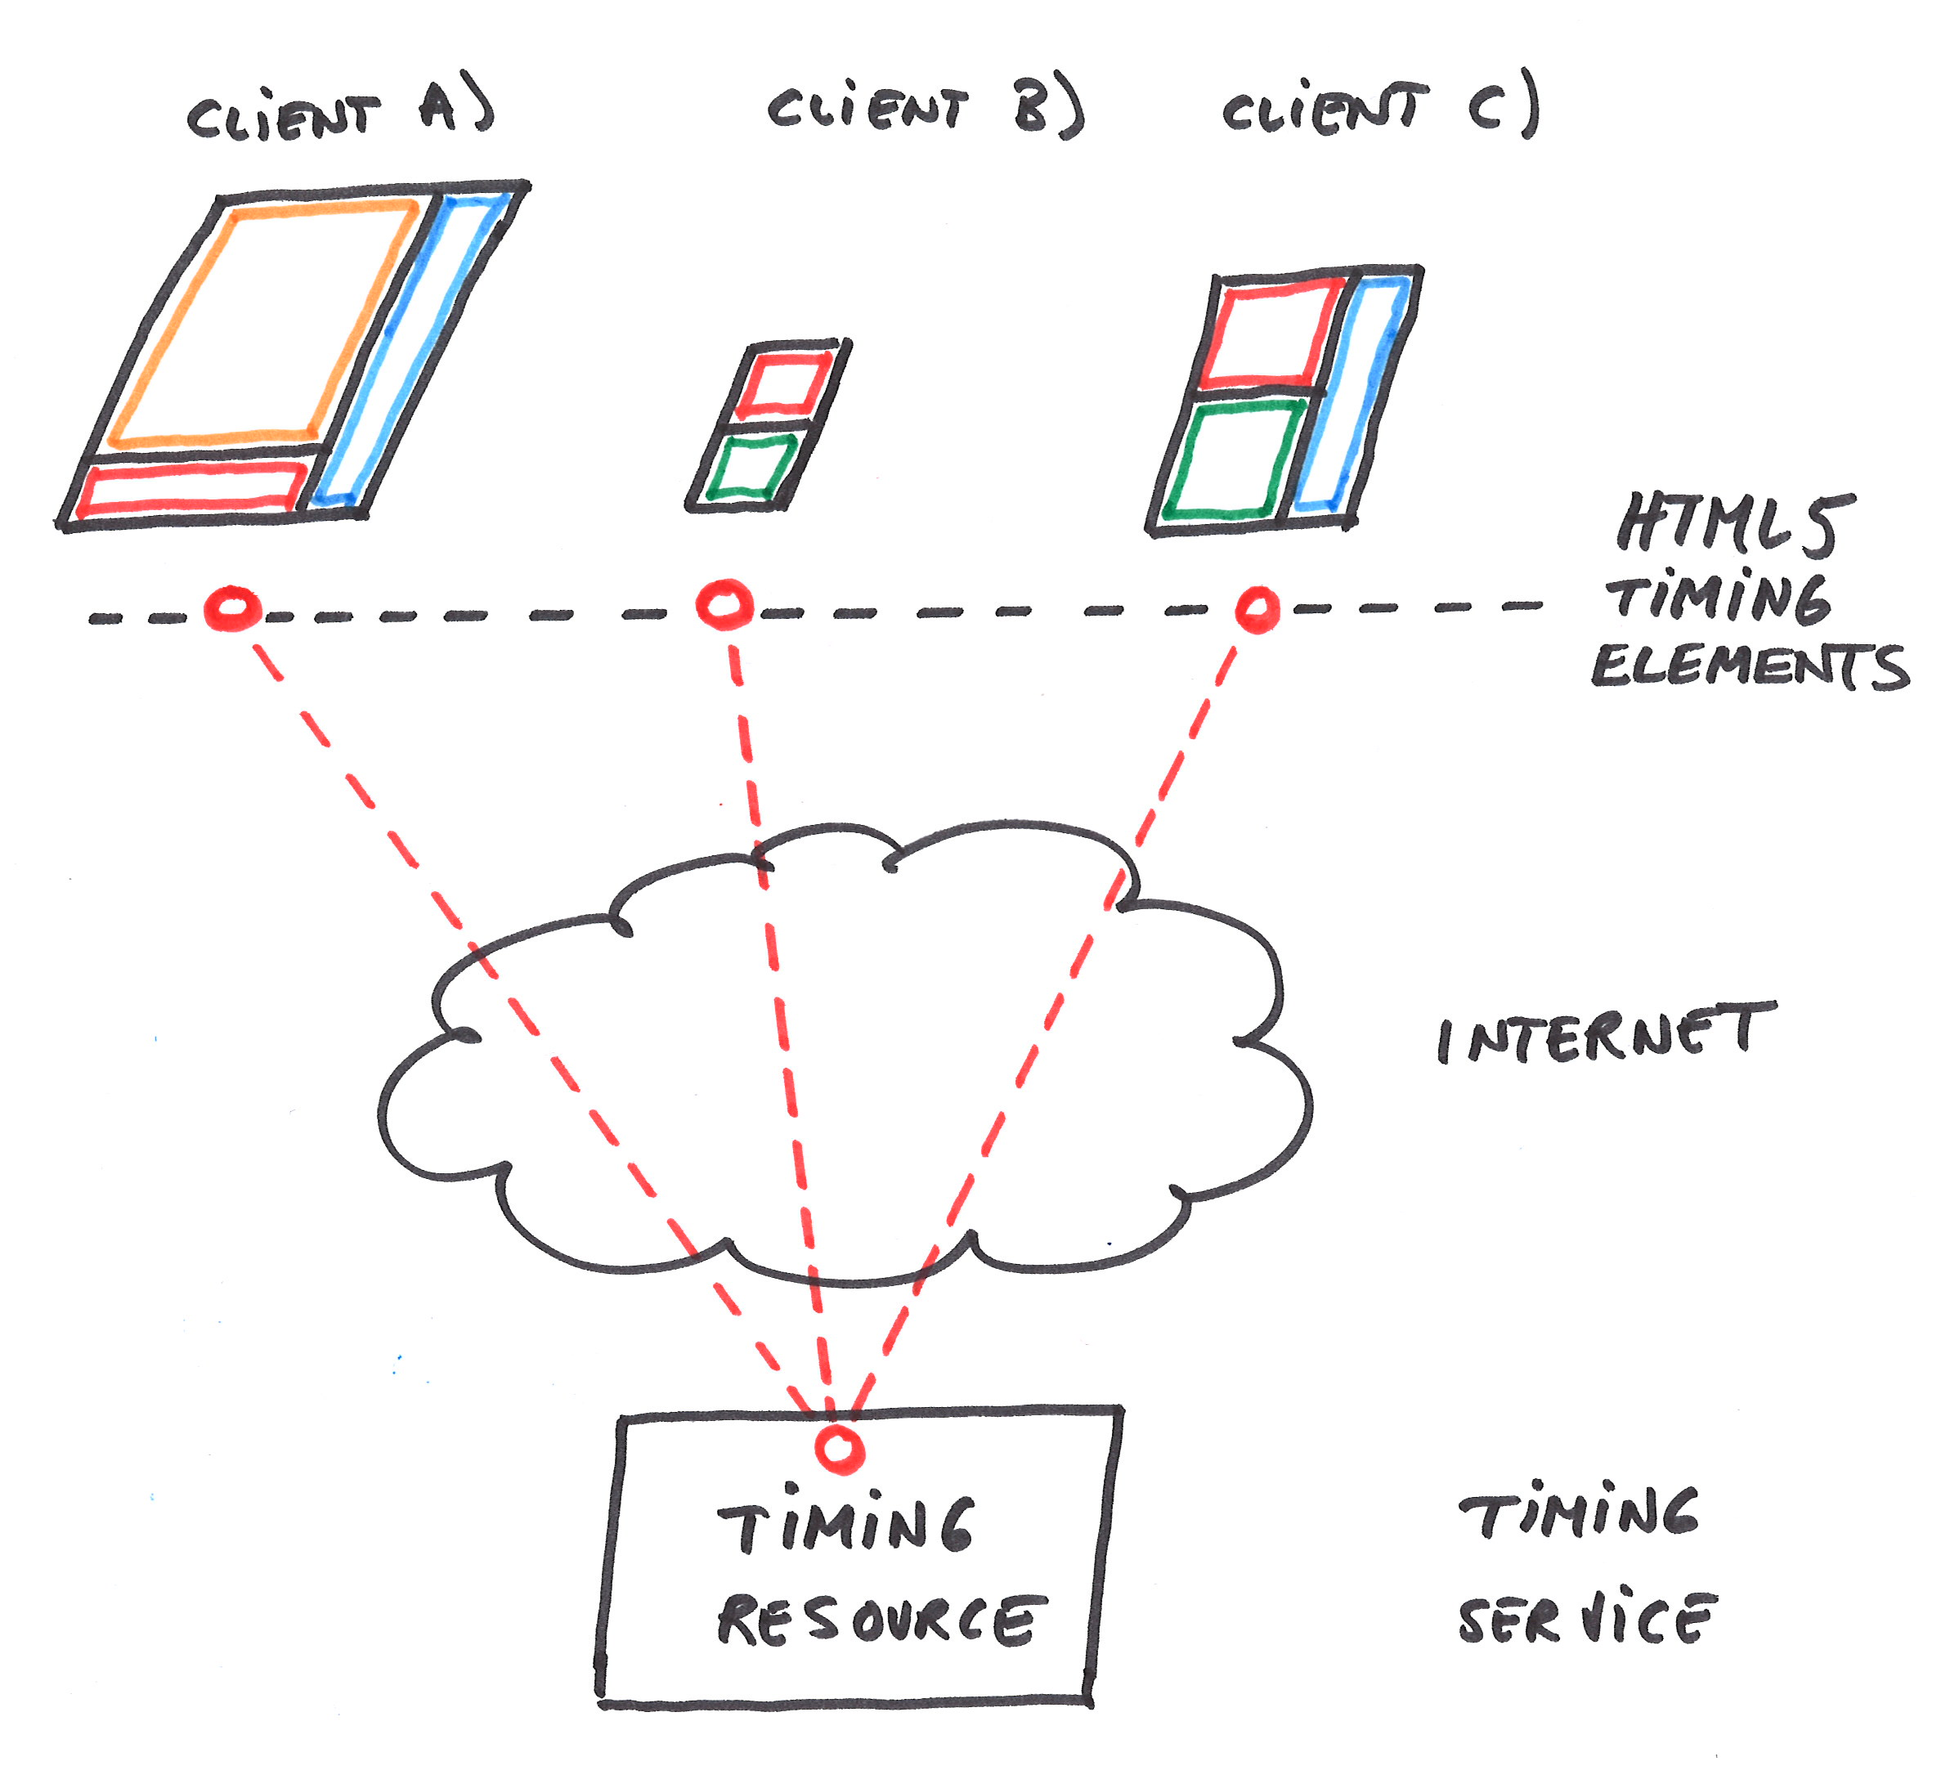
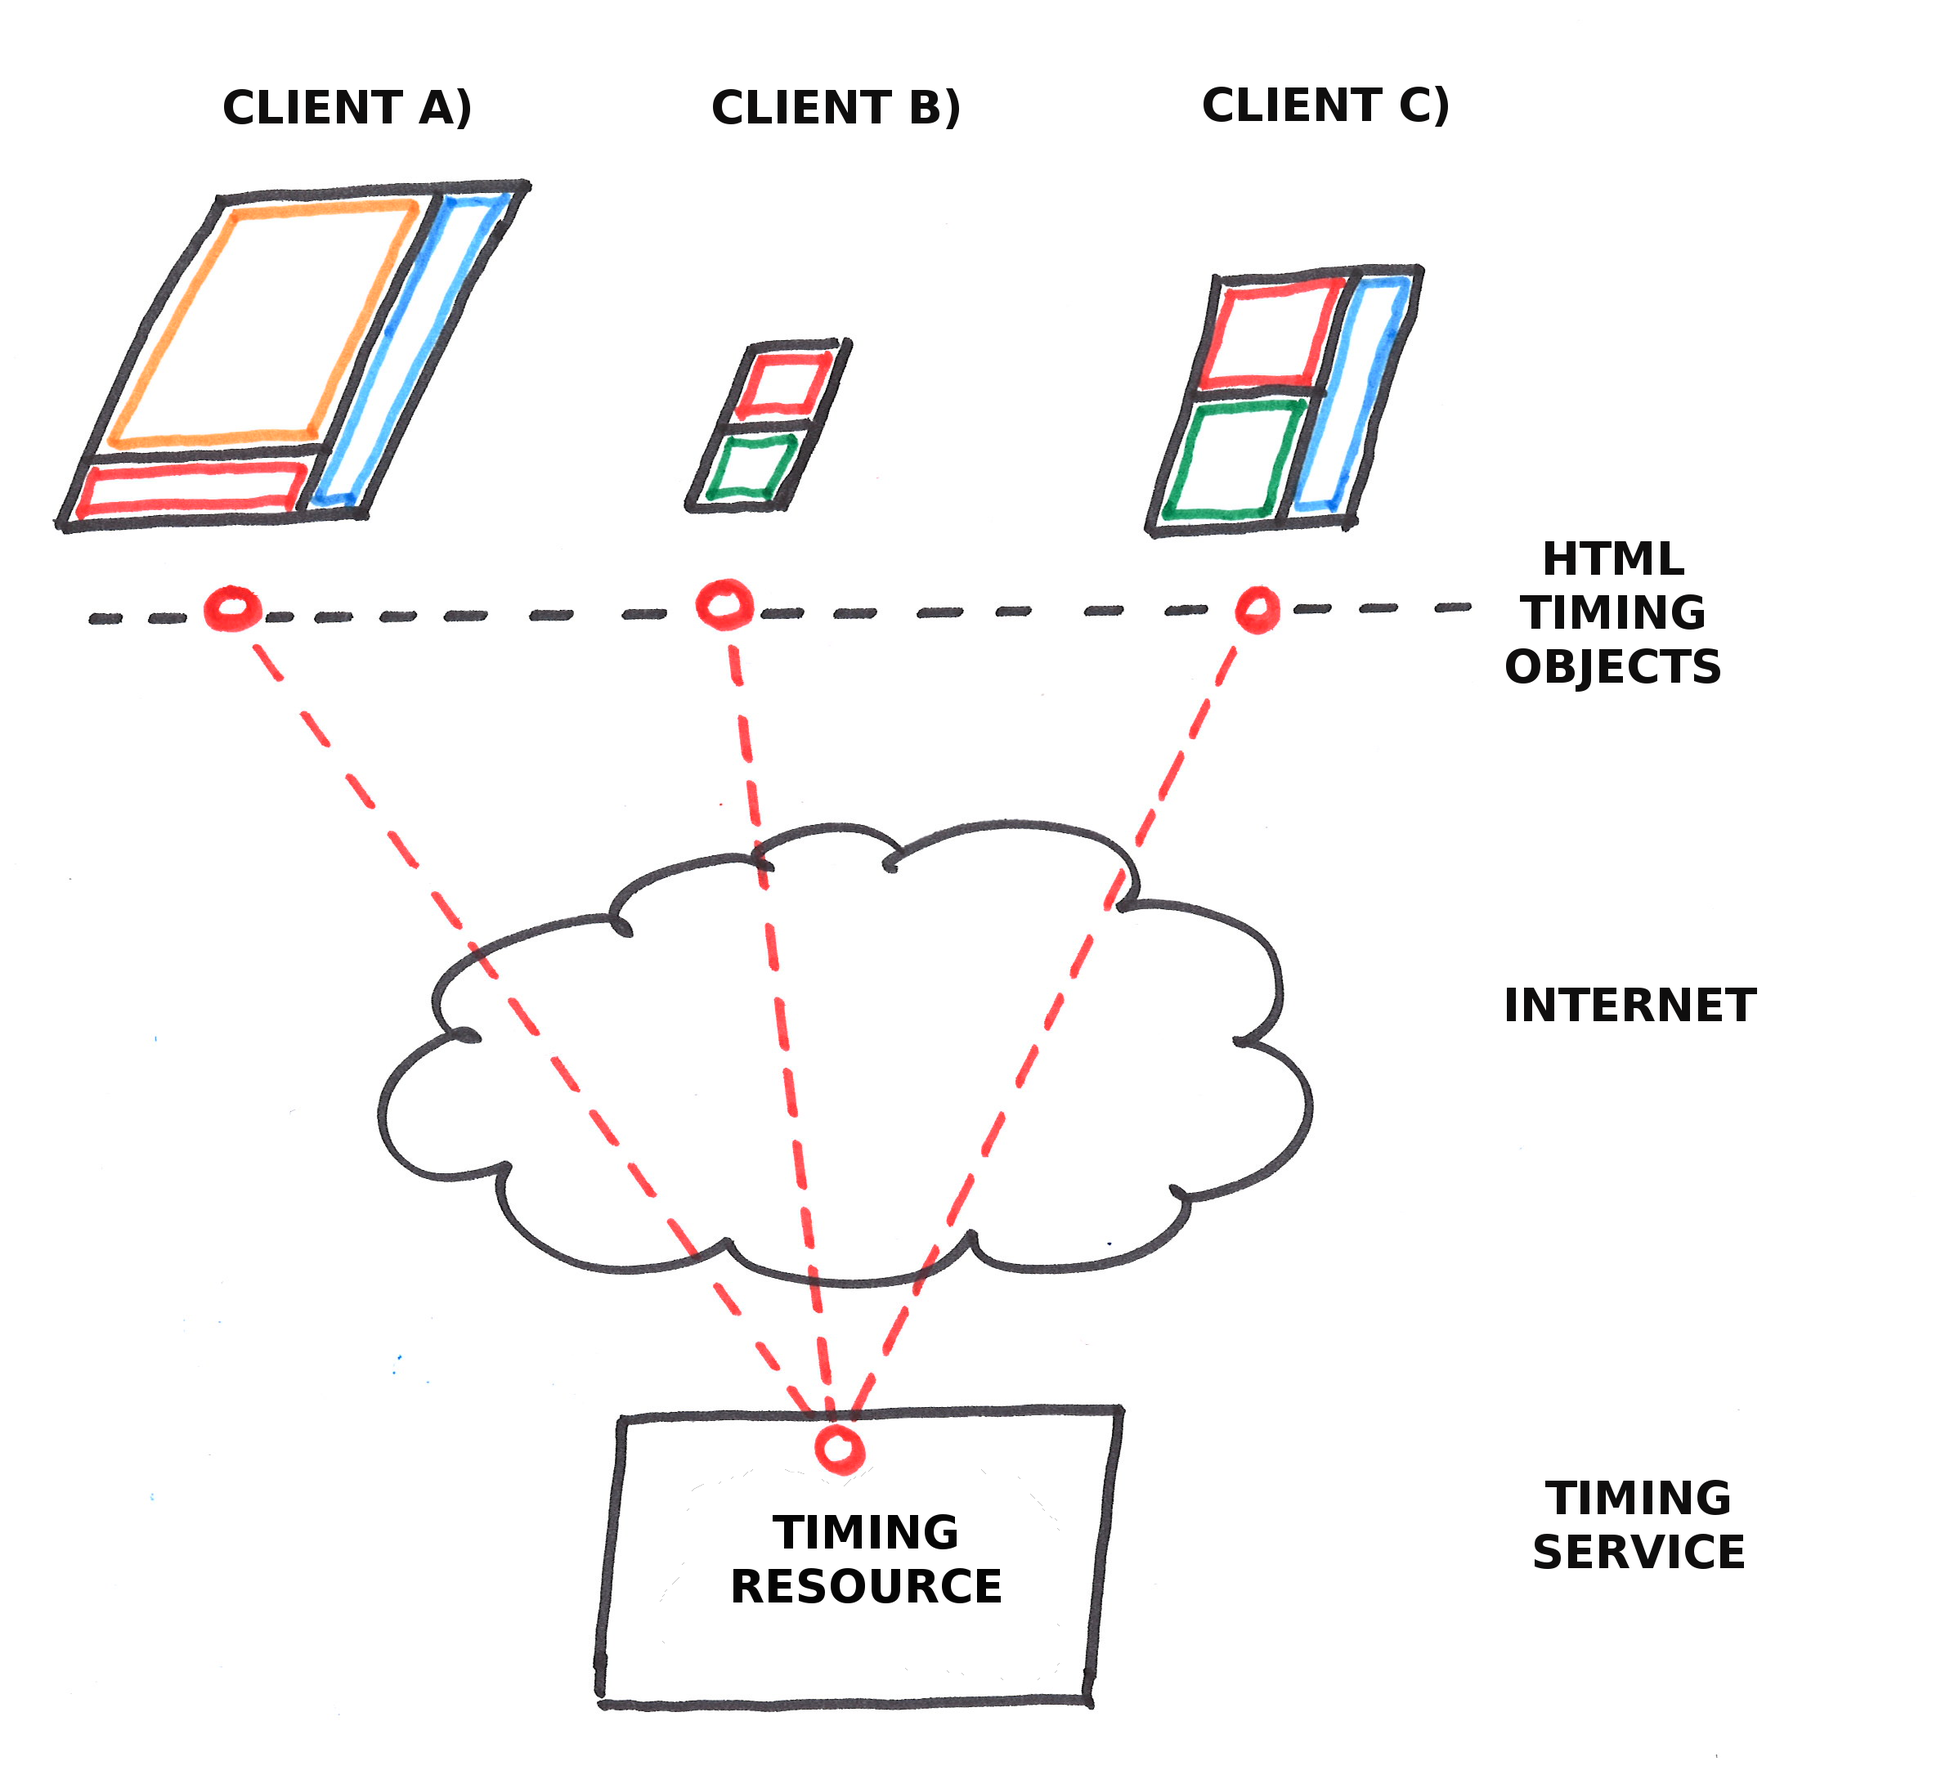
review introduction

diff --git a/index.html b/index.html
@@ -125,7 +125,7 @@
       <h2>Introduction</h2>
       
       <p>
-        Timing mechanisms allow operations to be executed at the correct time. The Web already has several mechanisms supporting timed operations, including <code>setTimeout</code>, <code>setInterval</code>, as well as controllers for media frameworks and animations. Unfortunately, these mechanisms are limited in scope, as they only apply to timed operations within a single web page. The <a href="https://www.w3.org/community/webtiming/">W3C Multi-device Timing Community Group</a> has been formed with the goal of extending the Web with native support for precisely timed operation across Web pages hosted by different devices, as well as providing a unifying model to which all frameworks for timed operation may integrate. The timing object is the central concept in this initiative.
+        Timing mechanisms allow operations to be executed at the correct time. The Web already has several mechanisms supporting timed operations, including <code>setTimeout</code>, <code>setInterval</code>, as well as media frameworks and animation frameworks for timed media presentation. Unfortunately, these mechanisms are limited in scope as they only apply to timed operations within a single web page. The <a href="https://www.w3.org/community/webtiming/">W3C Multi-device Timing Community Group</a> has been formed with the goal of extending the Web with native support for precisely timed operation across Web pages hosted by different devices, as well as providing a unifying model to which all frameworks for timed operation may integrate. The timing object is the central concept in this initiative.
       </p>
 
       <p>
@@ -145,13 +145,13 @@
         <h3>Linear composition</h3>
 
         <p>
-          <dfn>Linear composition</dfn> is simply the idea that complex linear media can be built from simpler, independent linear components. This way, the classical benefits of composition as a design principle, i.e. flexibility, reusability, extensibility and mashup-ability, would fully apply to linear media. For example, in the single-device scenario, imagine a linear presentation made from HTML5 video, some timed meta-information, a SMIL component, a Web Animation, a map with timed georeferenced data, and a timed Twitter widget. Or, in the multi-device scenario, imagine the same components distributed or duplicated across multiple devices. In both cases linear composition requires interoperability of heterogeneous linear components, through precisely coordinated, timed playback.
+          <dfn>Linear composition</dfn> or <dfn>temporal composition</dfn> is simply the idea that complex linear media can be built from simpler, independent linear components. Web support for linear composition would imply the classical benefits of composition as a design principle, i.e. flexibility, reusability, extensibility and mashup-ability. For example, in the single-device scenario, imagine a linear presentation made from HTML5 video, some timed meta-information, a SMIL component, a Web Animation, a map with timed georeferenced data, and a timed Twitter widget. Or, in the multi-device scenario, imagine the same components distributed or duplicated across multiple devices. In both cases linear composition requires interoperability of heterogeneous linear components through precisely coordinated, timed playback.
         </p>
         <p>
-          Up until now, each framework has defined its own custom timing control mechanisms, which makes it difficult to achieve <a>linear composition</a> in practice. The central purpose of the timing object is thus to simplify interoperability by providing a common basis for timing control in linear media.
+          Unfortunately, Web support for linear composition is not great. Each media framework tend to define its own custom timing control mechanisms, making it difficult to achieve <a>linear composition</a> in practice. The central purpose of the timing object is thus to simplify interoperability by providing a common basis for timed operation and control in linear media.
         </p>
         <p>
-          For a more detailed introduction on linear composition, see [[LINEARCOMPOSITION]].
+          For a more detailed introduction on linear composition on the Web, see [[LINEARCOMPOSITION]].
         </p>
       </section>
 
@@ -171,7 +171,7 @@
         </ol>
 
         <p>
-          <a href="#fig-timingobject-overview">Fig. 1</a> below illustrates these functions, as well as the underlying client-server architecture. In this example, a timing object is instantiated on each of the three devices, and each instance is connected to a single, shared online timing resource. On each device, the timing object acts as the director for independent, time-sensitive GUI components. This way, a video will aim to present video frames in accordance with the timing resource. Similarly, a time-sensitive Twitter widget might replay time-stamped Tweets. If the timing object pauses, the connected components are notified and react accordingly.
+          <a href="#fig-timingobject-overview">Fig. 1</a> below illustrates these functions, as well as the underlying client-server architecture. In this example, a timing object is instantiated on each of the three devices, and each instance is connected to a single, shared online timing resource. On each device, the timing object acts as the director for independent, timing-sensitive UI components. This way, a video will aim to present video frames in accordance with the timing resource. Similarly, a timing-sensitive Twitter widget might replay timestamped Tweets. If the timing object pauses, all the connected components are notified and react accordingly.
         </p>
 
         <figure id="fig-timingobject-overview">
@@ -183,7 +183,7 @@
           The different components can go about their business in complete isolation. There is no need for components to communicate, except indirectly through the timing object. This loose coupling is the key to linear composability.
         </p>
         <p>
-          Furthermore, when timing objects are connected to an online timing resource, they merely act as local representatives. For example, when requested to pause, the timing object will simply forward the request to the online timing resource. As the online object pauses, notifications will be multicast to all connected clients. The timing object will only update its internal state and notify connected UI components when it receives this notification. For online timing objects, clients can expect update latency of about one round trip time (RTT), whereas local timing resources should have no update latency. Apart from this, online and local timing resources should be hard to distinguish. Note also that the argument made for the independence of time-sensitive components in the single-device scenario now applies to the multi-device scenario as well. 
+          Furthermore, when timing objects are connected to an online timing resource, they merely act as local representatives. For example, when requested to pause, the timing object will simply forward the request to the online timing resource. As the online object pauses, notifications will be multicast to all connected clients. The timing object will only update its internal state and notify connected UI components when it receives this notification. For online timing objects, clients can expect update latency of about one round trip time (RTT), whereas local timing resources should have no update latency. Apart from this, online and local timing resources should be hard to distinguish. Note also that the argument made for the independence of timing-sensitive components in the single-device scenario now applies to the multi-device scenario as well. 
         </p>
 
         <p class="note">
@@ -194,7 +194,7 @@
       <section>
         <h3>The timing object</h3>
         <p>
-          A timing object is conceptually a very simple object, essentially an advanced stop watch (<a href="#fig-stopwatch">Fig. 2</a>). If started, its value changes predictably in time, until at some point later, it is paused, or perhaps reset. It may be queried for its value at any time. For example, it should take exactly 2.0 seconds for the value to advance from 3.0 to 5.0 when the velocity is 1.0. Such deterministic behavior is required for reliable distributed synchronization. In terms of implementation, the timing object is a fairly thin wrapping around a monotonic system clock (integration with online timing resources adds a bit of complexity). The precision of the timing object is that of the monotonic system clock.
+          A timing object is conceptually a very simple object, essentially an advanced stop watch (<a href="#fig-stopwatch">Fig. 2</a>). If started, its value changes predictably in time, until at some point later, it is paused, or perhaps reset. It may be queried for its value at any time. For example, it should take exactly 2.0 seconds for the value to advance from 3.0 to 5.0 when the velocity is 1.0. Such deterministic behavior is required for reliable distributed synchronization. In terms of implementation, the timing object is a fairly thin wrapping around a monotonic system clock (integration with online timing resources adds a bit of complexity). The precision of the timing object is limited by the underlying system clock.
         </p>
         <figure id="fig-stopwatch">
           <img src="stopwatch_digital.jpg" width="160" alt="The timing object is essentially and advanced stop watch." />
@@ -215,7 +215,7 @@
         <h3>Programming with timing objects</h3>
 
         <p>
-          Timing objects are resources used by your application, and you may define as many as you like. What purposes they serve in the application is up to the programmer. If the application needs a shared, multi-device clock, just start a timing object and make sure you never stop it. If you want the clock value to represent milliseconds, just set the velocity to 1000 (advances the timing object with 1000 milliseconds per second). If the timing object represents media offset, just specify the playback position, the velocity, and perhaps a media duration. For video you might measure offset in seconds or frames and set the velocity accordingly. Or, for musical applications it may be practical to let the timing object represent beats per second. Note also that the timing object may represent time-changes with any kind of variable. For instance, if you have data that is organized according to, say height above sea level, you may want to animate how this data changes as you move vertically. In this case the timing object might represent meters or feet above sea level, and positive and negative velocities would allow you to move both upwards and downwards.
+          Timing objects are resources used by your application, and you may define as many as you like. What purposes they serve in the application is up to the programmer. If the application needs a shared, multi-device clock, just start a timing object (and make sure you never stop it). If you want the clock value to represent milliseconds, just set the velocity to 1000 (advances the timing object with 1000 milliseconds per second). If the timing object represents media offset, just specify the playback position, the velocity, and perhaps a media duration. For video you might measure offset in seconds or frames and set the velocity accordingly. Or, for musical applications it may be practical to let the timing object represent beats per second. Note also that the timing object may represent time-changes with any kind of floating-point variable. For instance, if you have data that is organized according to, say height above sea level, you may want to animate how this data changes as you move vertically. In this case the timing object might represent meters or feet above sea level, and positive and negative velocities would allow you to move both upwards and downwards.
         </p>
         <p>
           In general, the timing object is particularly useful when you have a variable that needs to change predictably in time.
@@ -227,7 +227,7 @@
         <h3>Media capture and playback</h3>
 
         <p>
-          Two very common uses of the timing object include media capture and playback. For media playback, the  timing object may play the role of director/controls. Multiple independent components, possibly on different devices, may be responsible for timed presentation of timed media. If all components take direction from a single timing object, playback is ensured to be consistent.
+          Two very common uses of the timing object include media capture and playback. For media playback, the  timing object may play the role of director/controls. Multiple independent components, possibly on different devices, may be responsible for timed presentation of timed media. If all components take direction from a single timing object, playback is ensured to be timing-consistent.
         </p>
         <p>
           For media capture, the timing object may represent a shared clock for timestamping various types of captured media, also in multi-device scenarios. As long as timestamps are sampled from a shared clock and included in the captured media, time-shifted playback is possible. In live capturing scenarios, the timing object should likely just run continuously like a clock, or perhaps be adjusted slightly from time to time to stay in sync with some real-world clock source, e.g. epoch. However, media capture in a studio may be a much more iterative process, recording one track or sample at a time. In such scenarios, the timing object might have to be paused and rewound for each take. The timing object will then play the dual role of playback director for previously captured media, as well as production clock for current capture.
